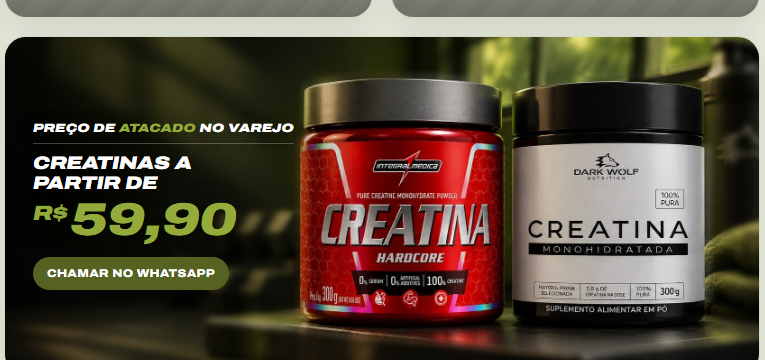
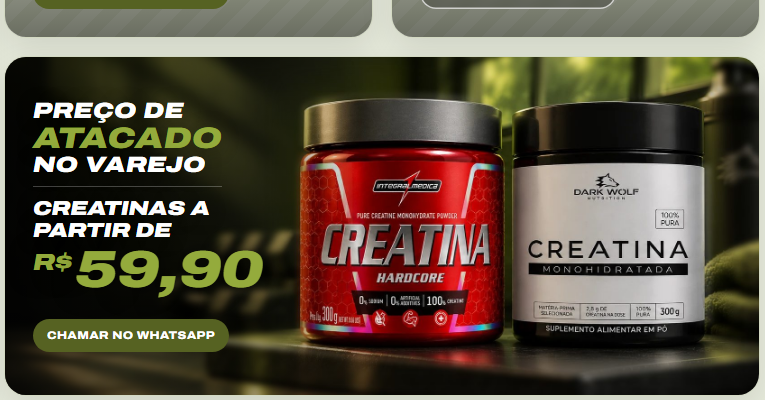
Card da creatina: headline em 3 linhas, fontes maiores e texto abaixo dos potes no celular

diff --git a/index.html b/index.html
@@ -118,16 +118,17 @@ a{color:inherit;text-decoration:none}
 .card-oferta::after{background:linear-gradient(90deg,rgba(0,0,0,.72) 0%,rgba(0,0,0,.45) 30%,rgba(0,0,0,0) 48%)}
 .card-oferta .conteudo{width:auto;max-width:37%;padding-right:0}
 .mosaico .card-oferta h3.oferta{display:flex;flex-direction:column;gap:6px;font-size:inherit;overflow-wrap:normal}
-.oferta-topo{color:#fff;font-size:clamp(11px,.84vw,12px);white-space:nowrap;line-height:1.1;letter-spacing:.02em;padding-bottom:8px;margin-bottom:4px;border-bottom:1px solid rgba(255,255,255,.25);align-self:flex-start}
-.oferta-topo em{font-style:inherit;color:#94AB3C}
-.oferta-chamada{color:#fff;font-size:clamp(14px,1.3vw,18px);line-height:1.1}
-.oferta-preco{color:#94AB3C;font-size:clamp(32px,3.3vw,46px);line-height:.9;white-space:nowrap;text-shadow:0 2px 24px rgba(0,0,0,.5)}
+.oferta-topo{color:#fff;font-size:clamp(17px,1.6vw,22px);line-height:1.05;letter-spacing:.02em;padding-bottom:8px;margin-bottom:4px;border-bottom:1px solid rgba(255,255,255,.25);align-self:flex-start}
+.oferta-topo em{font-style:inherit;color:#94AB3C;font-size:1.35em}
+.oferta-chamada{color:#fff;font-size:clamp(15px,1.45vw,20px);line-height:1.1}
+.oferta-preco{color:#94AB3C;font-size:clamp(36px,3.7vw,52px);line-height:.9;white-space:nowrap;text-shadow:0 2px 24px rgba(0,0,0,.5)}
 .oferta-preco small{font-size:.45em;margin-right:.12em;vertical-align:.7em}
+.card-oferta .botoes{margin-top:26px}
 @media (max-width:760px){
   .card-oferta{align-items:flex-end}
-  .mosaico .card-oferta{min-height:440px;background:#0A0C07}
-  .card-oferta img{height:66%;object-position:84% center}
-  .card-oferta::after{background:linear-gradient(180deg,rgba(10,12,7,0) 46%,#0A0C07 66%)}
+  .mosaico .card-foto.card-oferta{min-height:600px;background:#0A0C07}
+  .card-oferta img{height:50%;object-position:84% center}
+  .card-oferta::after{background:linear-gradient(180deg,rgba(10,12,7,0) 36%,#0A0C07 50%)}
   .card-oferta .conteudo{max-width:none}
 }
 
@@ -276,7 +277,7 @@ a{color:inherit;text-decoration:none}
       <img src="fotos/creatinas.jpg" alt="Creatinas a partir de R$ 59,90 na Distrito Fitness" width="1672" height="941" loading="lazy">
       <div class="conteudo">
         <h3 class="titulo oferta">
-          <span class="oferta-topo">Preço de <em>atacado</em> no varejo</span>
+          <span class="oferta-topo">Preço de<br><em>atacado</em><br>no varejo</span>
           <span class="oferta-chamada">Creatinas a partir de</span>
           <span class="oferta-preco"><small>R$</small>59,90</span>
         </h3>
